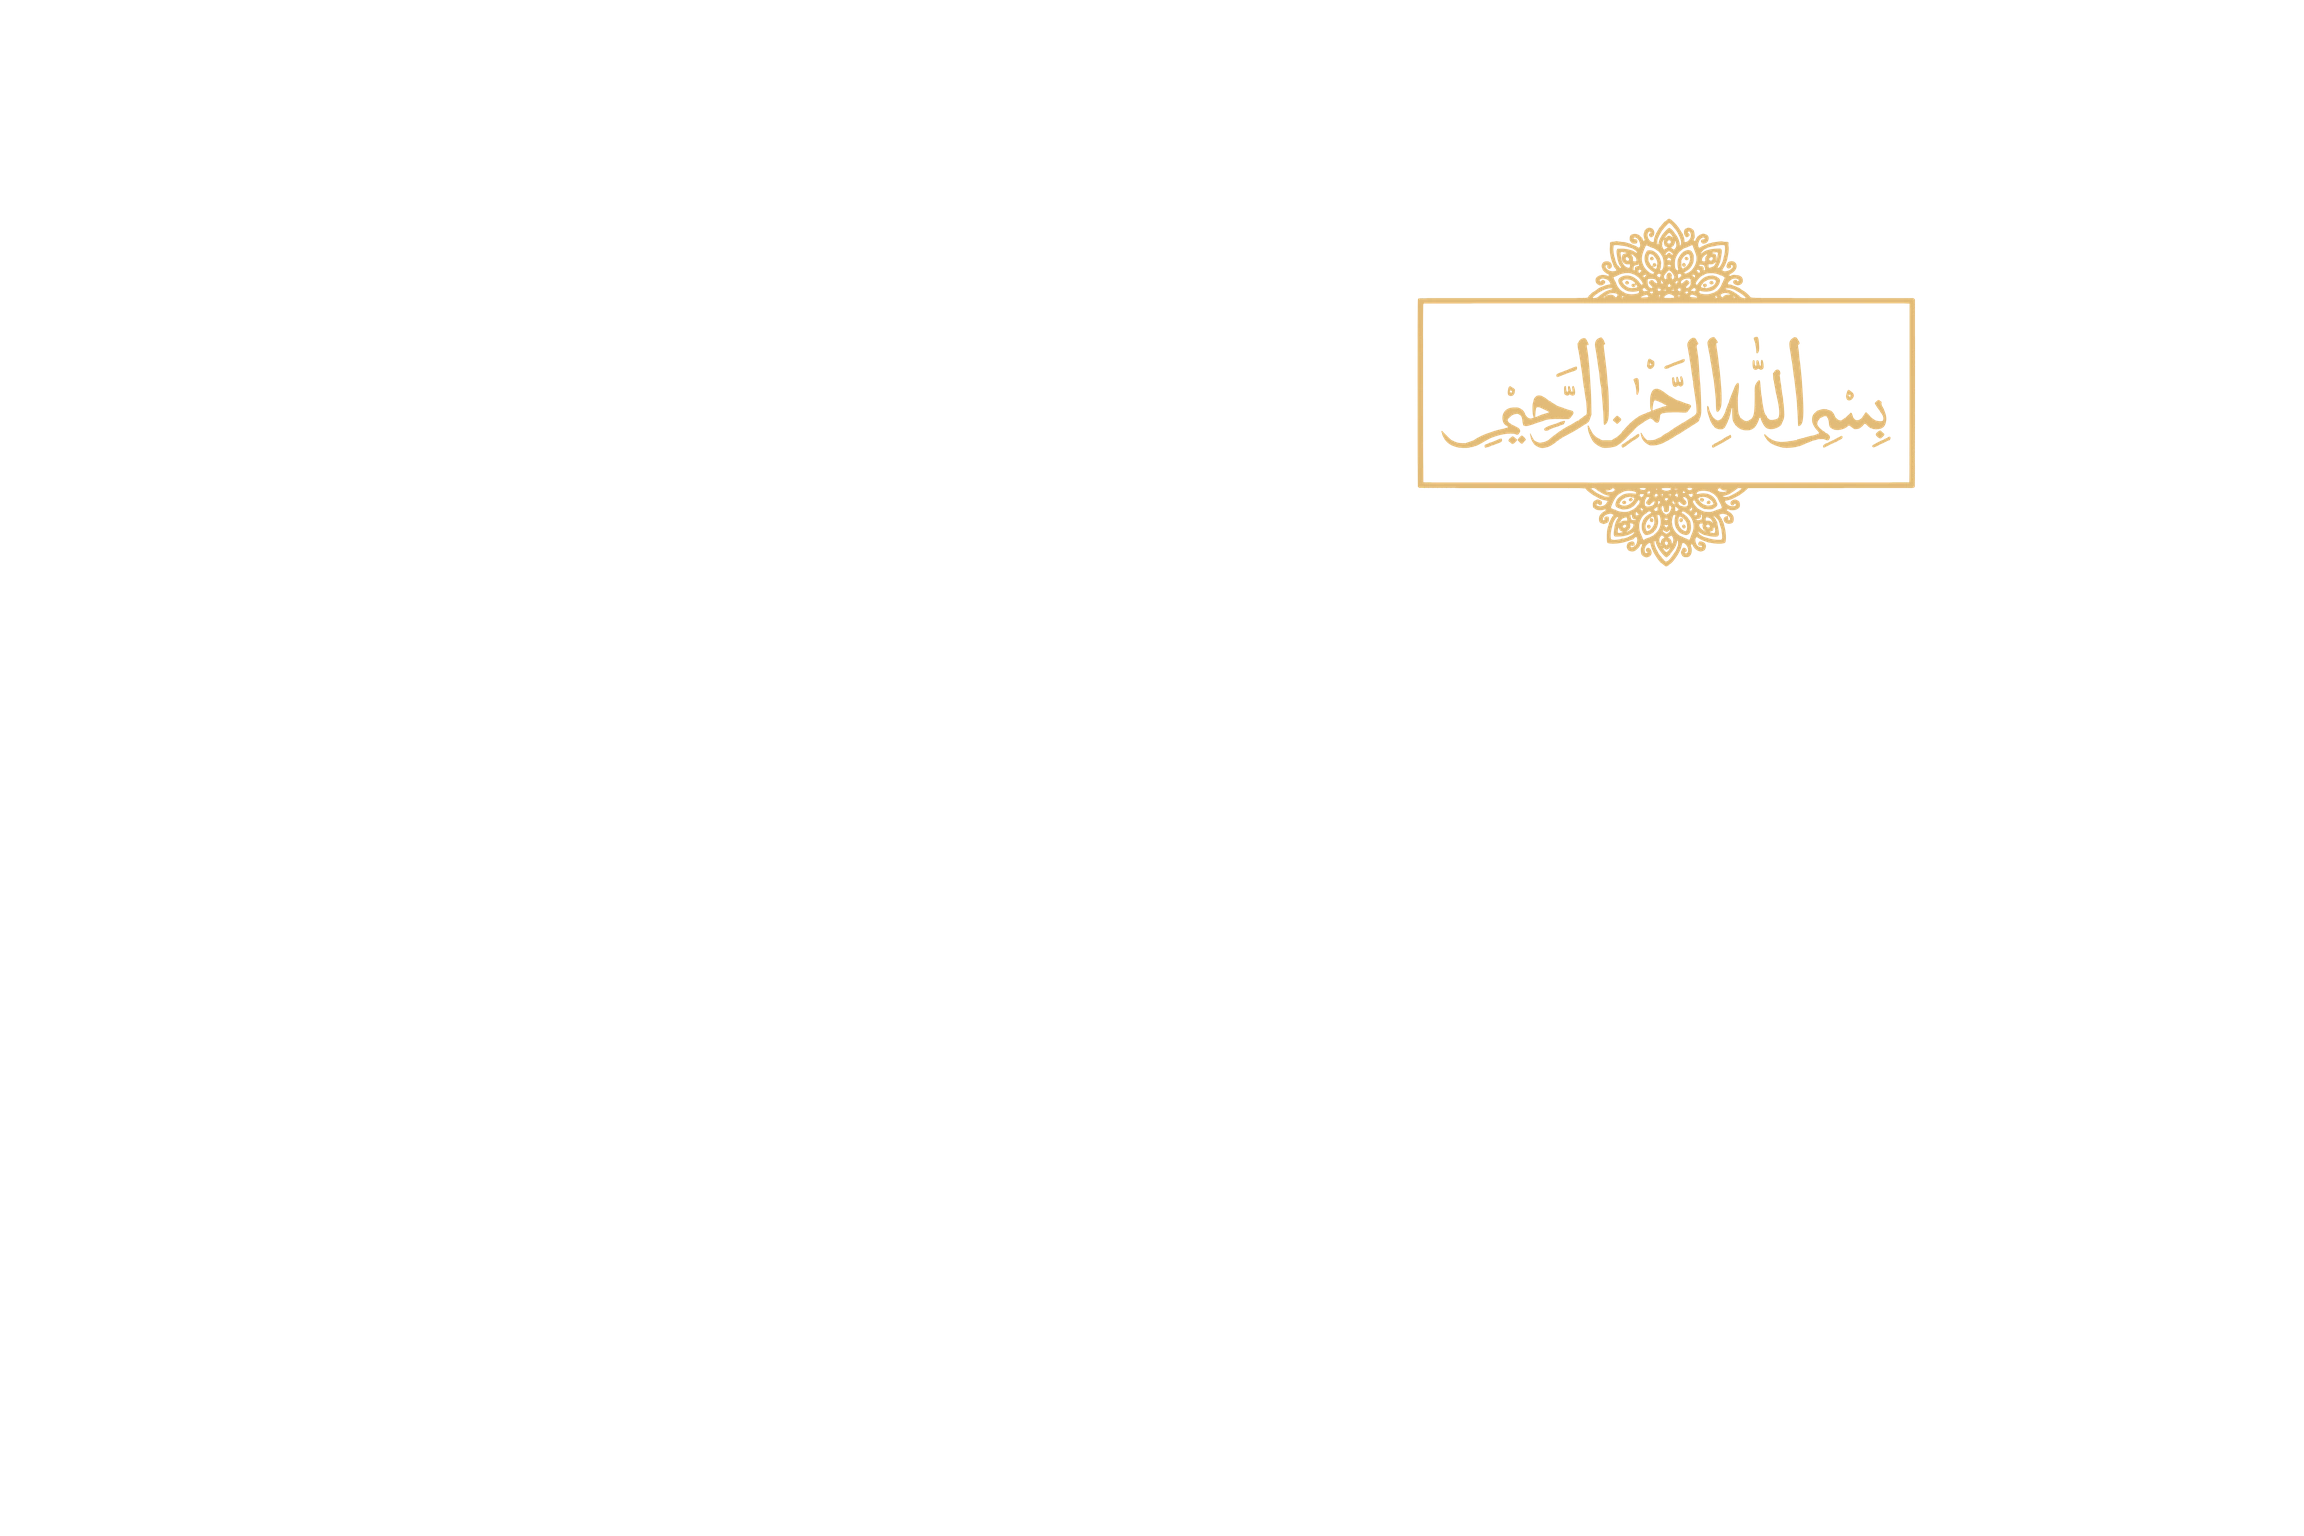
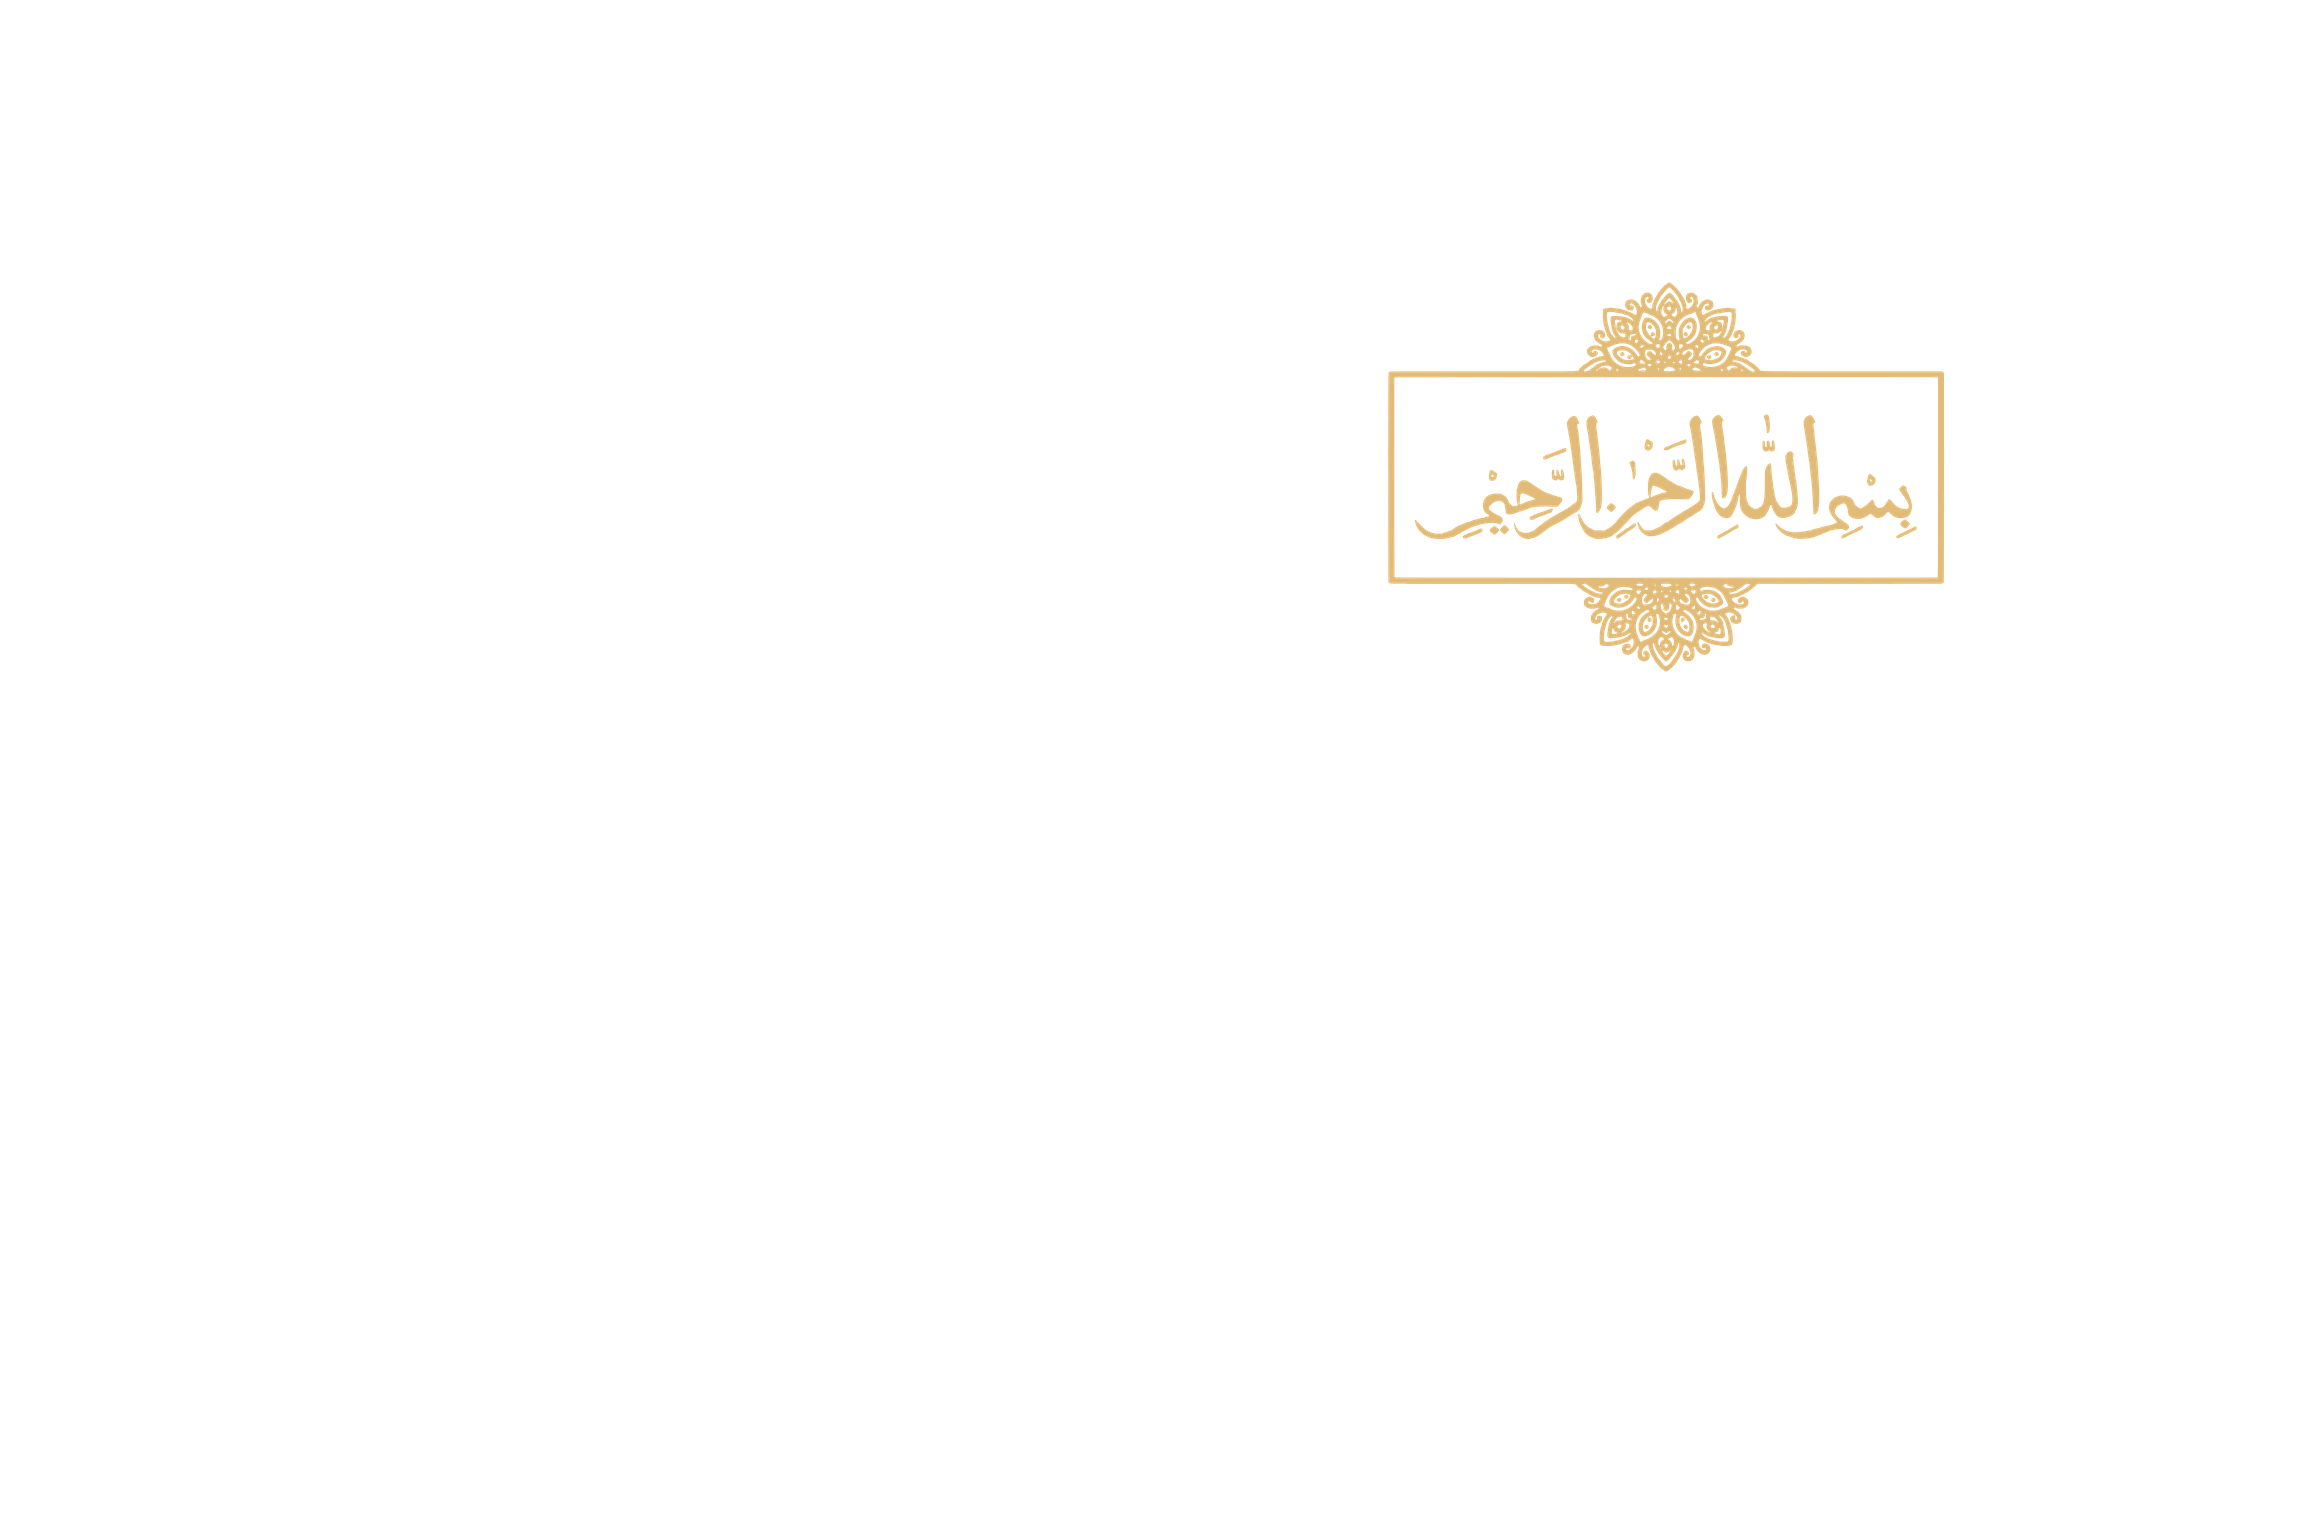
Retour arrière sans intro (position retrouvée), filigrane plus transparent et flouté, basmala plus basse et plus grande, cercle d'intro sur la poitrine
Claude-Session: https://claude.ai/code/session_01Fn6Y4hVwZa6yTFBC1r7Tqf

Changed region(s): [[0.5938, 0.125, 0.8438, 0.4375]]

diff --git a/src/main.js b/src/main.js
@@ -85,8 +85,8 @@ function pointShaykh() {
   const s = Math.max(w / ratio, h) ; // hauteur d'image affichée
   const dh = s;
   const dw = s * ratio;
-  const x = (w - dw) * px + 0.75 * dw;
-  const y = (h - dh) * py + 0.532 * dh;
+  const x = (w - dw) * px + 0.738 * dw;
+  const y = (h - dh) * py + 0.562 * dh;
   return { x: Math.min(Math.max(x, 0), innerWidth), y: Math.min(Math.max(y, 0), innerHeight) };
 }
 
@@ -634,9 +634,19 @@ function dust() {
    --------------------------------------------------------- */
 $(".year").textContent = new Date().getFullYear();
 
-// l'ouverture se referme sur la photo : on repart toujours du haut de la page
+// Rechargement ou première visite : on repart du haut (l'ouverture se referme sur la photo).
+// Retour arrière : pas d'intro, et on retrouve l'endroit de la page que l'on avait quitté.
+const retour = performance.getEntriesByType?.("navigation")?.[0]?.type === "back_forward";
+const cleScroll = `y:${location.pathname}`;
+const memoriserScroll = () => {
+  try {
+    sessionStorage.setItem(cleScroll, String(Math.round(window.scrollY)));
+  } catch {}
+};
+addEventListener("pagehide", memoriserScroll);
+document.addEventListener("visibilitychange", () => document.visibilityState === "hidden" && memoriserScroll());
 if ("scrollRestoration" in history) history.scrollRestoration = "manual";
-scrollTo(0, 0);
+if (!retour) scrollTo(0, 0);
 
 const ready = document.fonts ? document.fonts.ready : Promise.resolve();
 
@@ -668,6 +678,17 @@ ready.then(async () => {
   if (!intro) gsap.from(".header", { y: -40, opacity: 0, duration: 1.1, ease: "expo.out" });
   await runLoader(() => intro?.play());
   lenis?.start();
+  if (retour) {
+    let y = 0;
+    try {
+      y = Number(sessionStorage.getItem(cleScroll)) || 0;
+    } catch {}
+    if (y > 0) {
+      ScrollTrigger.refresh();
+      if (lenis) lenis.scrollTo(y, { immediate: true, force: true });
+      else scrollTo(0, y);
+    }
+  }
   inscription?.verifierHash();
   // arrivée sur une ancre (ex. index.html#ecrits)
   try {

diff --git a/index.html b/index.html
@@ -31,7 +31,11 @@
     <div class="loader-grid"></div>
     <script>
       (function () {
-        try { if (sessionStorage.getItem("skipIntro")) { sessionStorage.removeItem("skipIntro"); document.documentElement.setAttribute("data-skip", "1"); } } catch (e) {}
+        try {
+          var nav = performance.getEntriesByType("navigation")[0];
+          var back = nav && nav.type === "back_forward";
+          if (sessionStorage.getItem("skipIntro") || back) { sessionStorage.removeItem("skipIntro"); document.documentElement.setAttribute("data-skip", "1"); }
+        } catch (e) {}
         var g = document.querySelector(".loader-grid");
         var mob = innerWidth < 760, c = mob ? 4 : 8, r = mob ? 7 : 5;
         var C = ["#b8322a", "#2f6f4e", "#d9a527", "#2c4f8c", "#7b3b7e", "#d96b2b", "#c9a46a"];

diff --git a/src/style.css b/src/style.css
@@ -411,7 +411,8 @@ button { font: inherit; color: inherit; background: none; border: 0; cursor: poi
   inset: 0 46% 0 0;
   z-index: 1;
   background: url("/media/motif-geometrique.svg") 0 0 / 90px 90px;
-  opacity: 0.17;
+  opacity: 0.1;
+  filter: blur(1.6px);
   -webkit-mask-image: linear-gradient(90deg, #000 0%, #000 50%, transparent 100%);
   mask-image: linear-gradient(90deg, #000 0%, #000 50%, transparent 100%);
   pointer-events: none;
